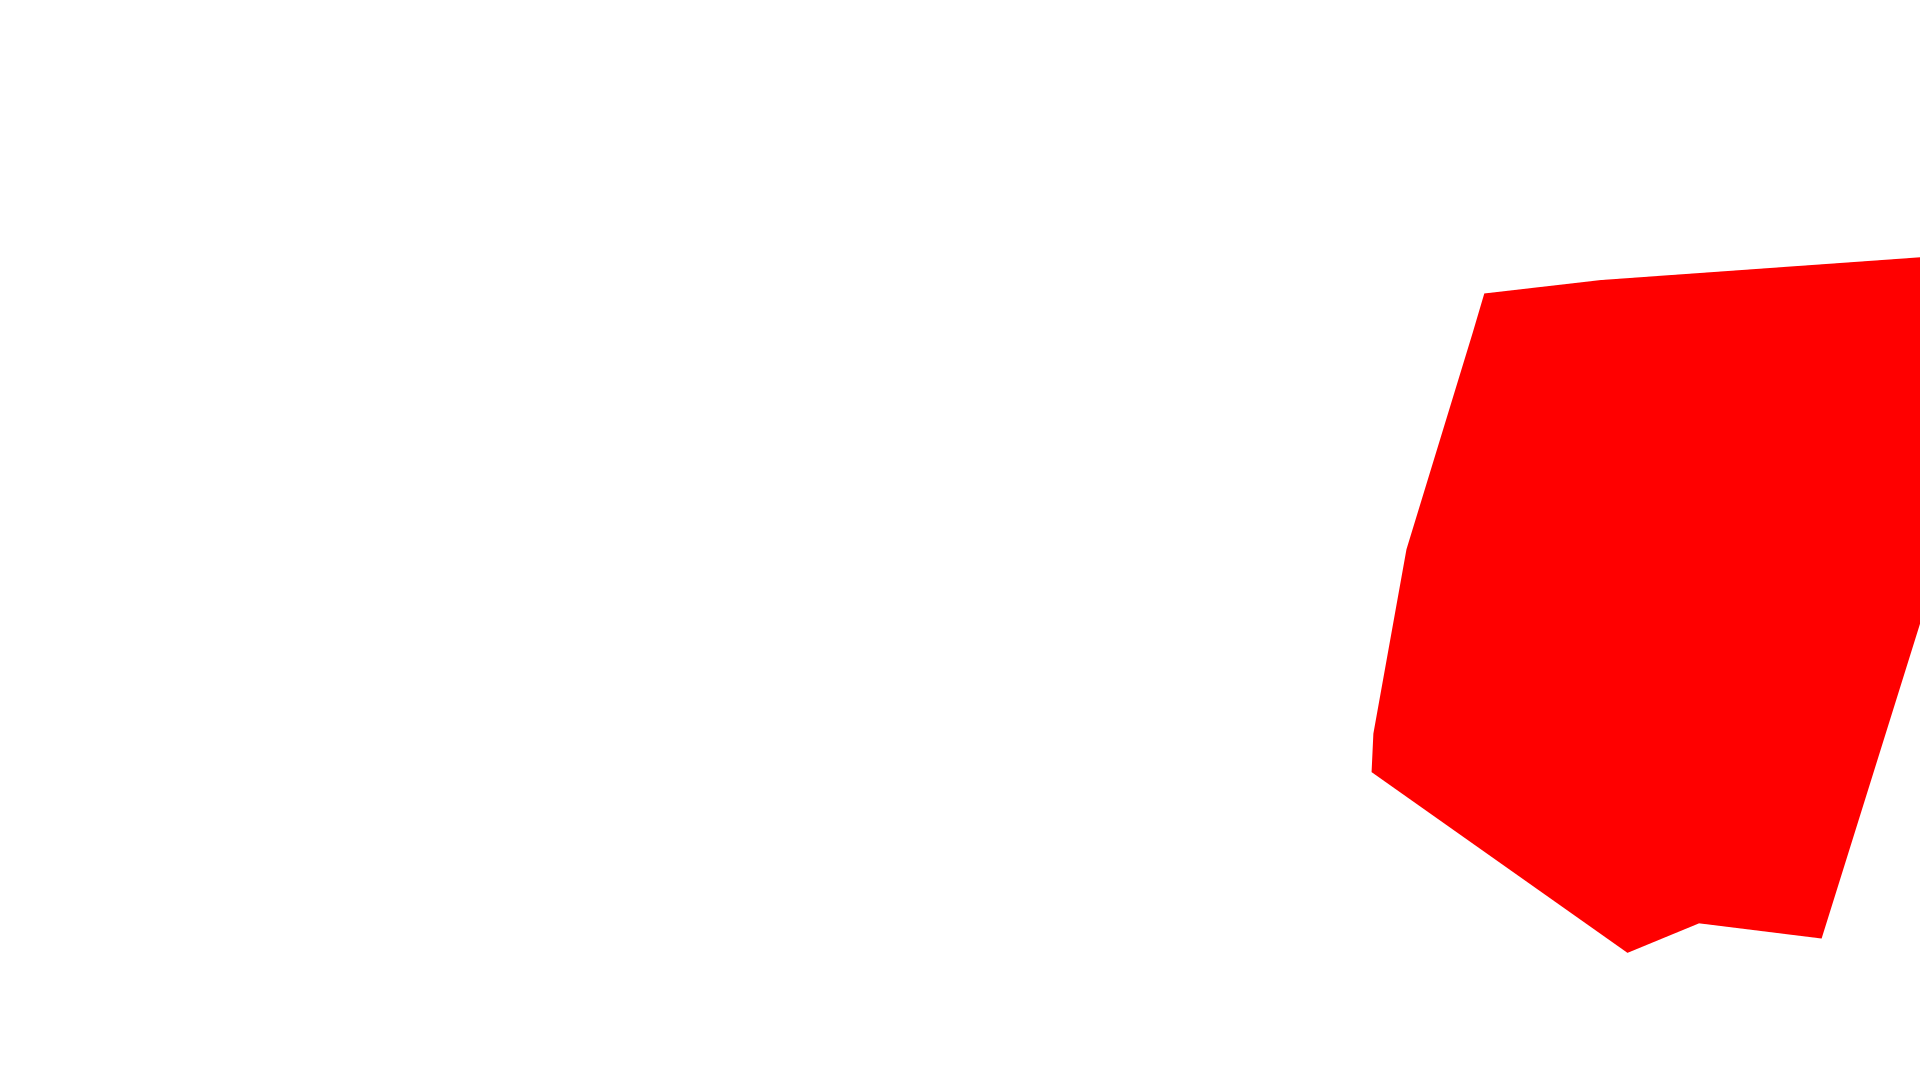
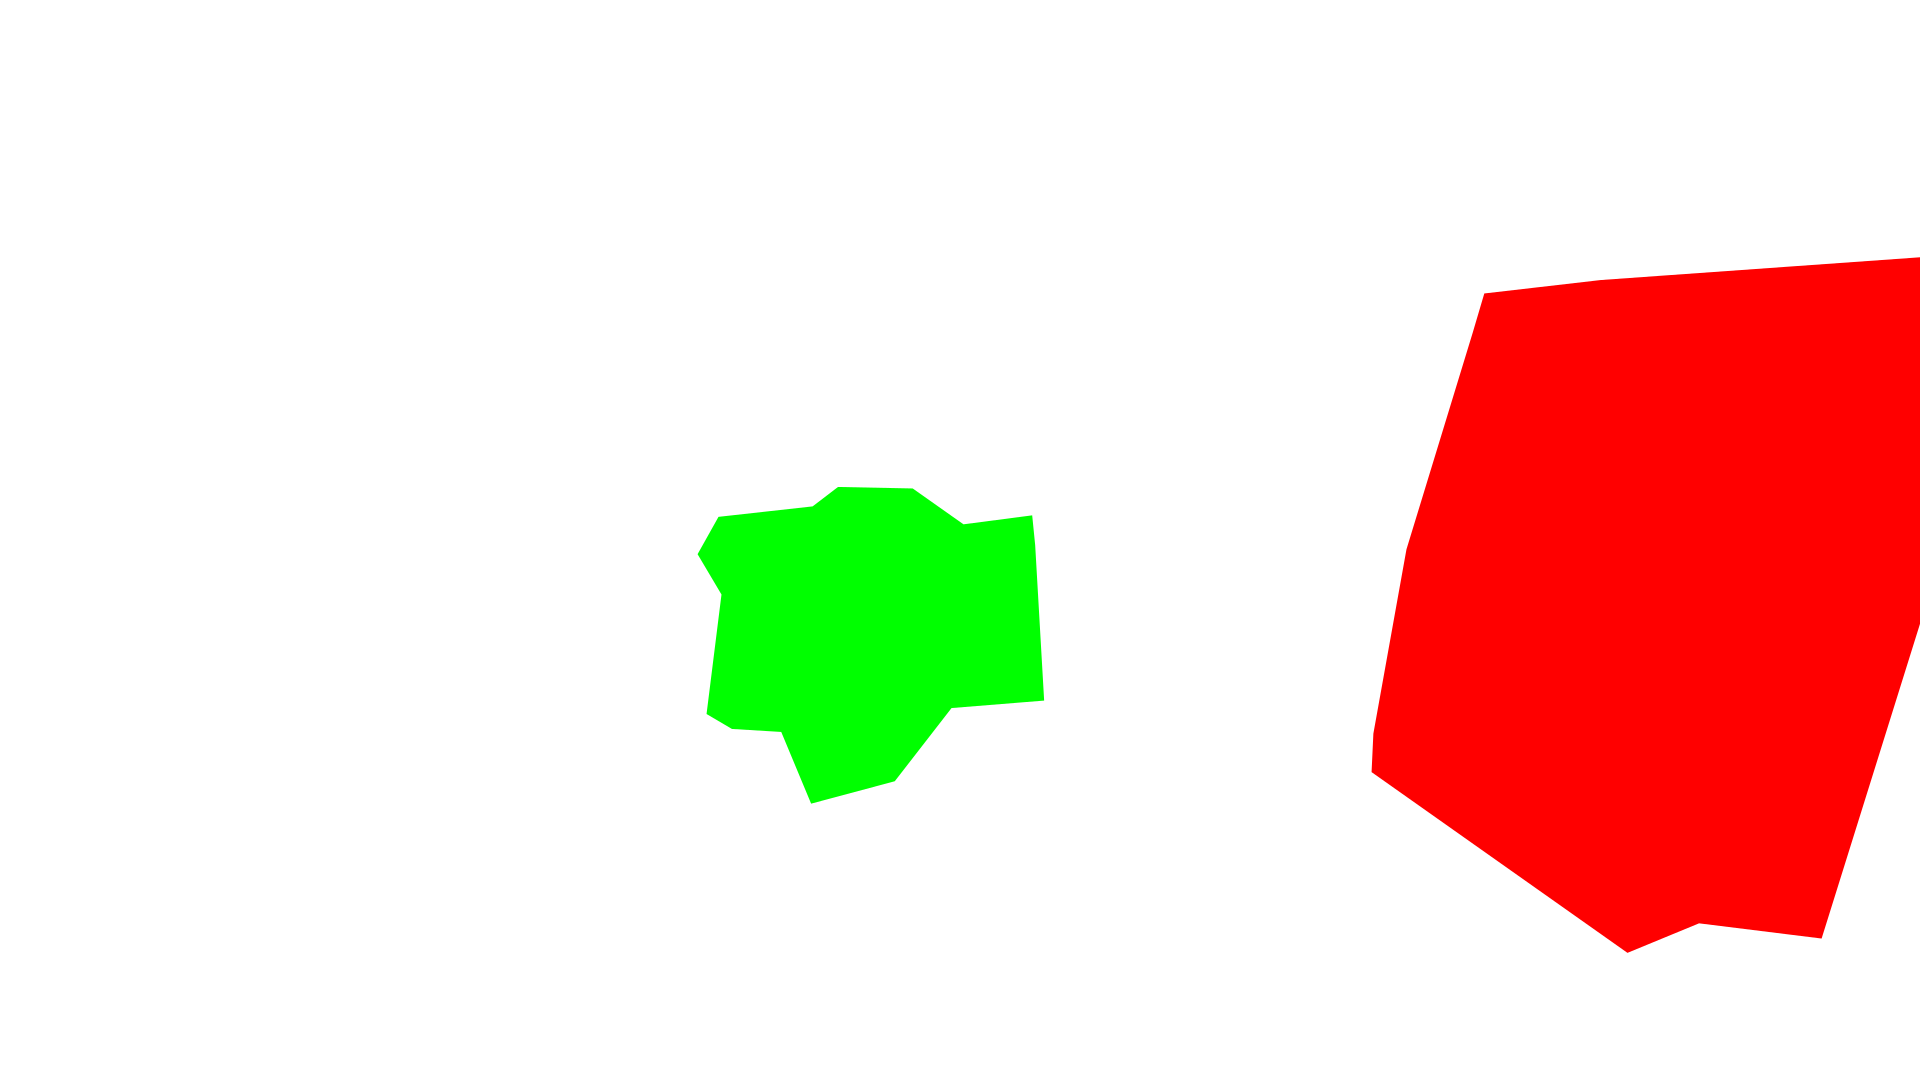
Commit from 2024-07-02_23:52:52

Changed region(s): [[0.3438, 0.4278, 0.5625, 0.7639]]

diff --git a/escaperoom/script.js b/escaperoom/script.js
@@ -15,6 +15,8 @@ hiddenImage.onload = () => {
     document.getElementById("loadingText").style.display = 'none';
 };
 
+var korrekterCode = 0;
+
 function handleMouseMove(event) {
     const rect = mainImage.getBoundingClientRect();
     const x = Math.round((event.clientX - rect.left) / rect.width * hiddenImage.width);
@@ -200,11 +202,13 @@ function performDefaultAction() {
     console.log("Keine spezifische Farbe erkannt. Standardaktion ausführen.");
 }*/
 
-    function codeEingabe() {
+    function codeEingabe(code) {
         const params = {
             length: 4,
             charset: 'numeric'
         };
+
+        korrekterCode = code;
 
         const base64Params = btoa(JSON.stringify(params));
 
@@ -219,14 +223,6 @@ function performDefaultAction() {
     }
 
 function verifyCode(code) {
-    switch (codeId) {
-    case 1:
-        korrekterCode = '8394';
-        break;
-    default:
-        korrekterCode = '0000';
-        break;
-    }
     if (code === korrekterCode) {
         correctCodeEvent(code);
     } else {

diff --git a/escaperoom/start.html b/escaperoom/start.html
@@ -23,11 +23,11 @@
             var color = `${r};${g};${b};${a}`;
 
             switch(color) {
-            case 'something else':
-                // do something
+            case '0;255;0;255':
+                codeEingabe(8394);
                 break;
-            case '0;0;255;255':
-                showIframe();
+            case '255;0;0;255':
+                showIframe('https://learningapps.org/watch?v=pvz63fmik24');
                 break
             case '0;0;0;0':
             default:
